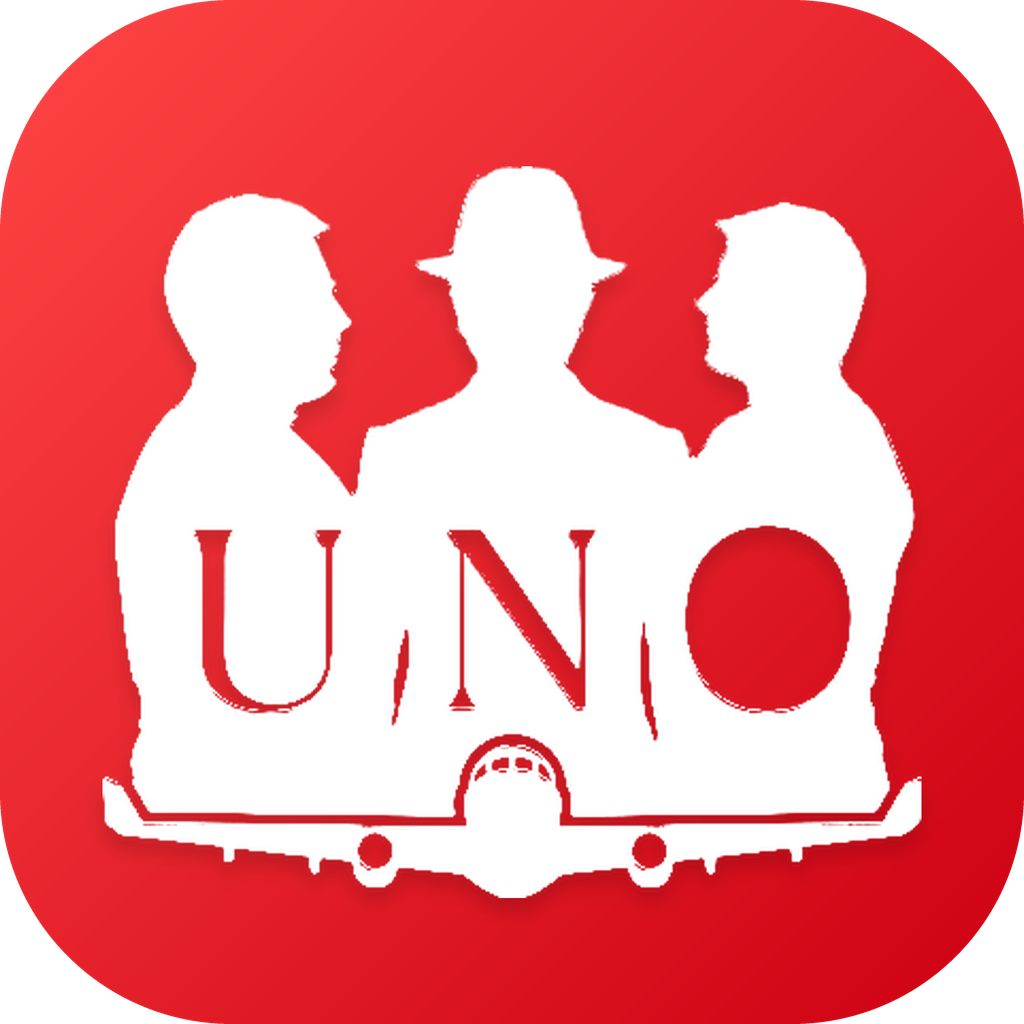
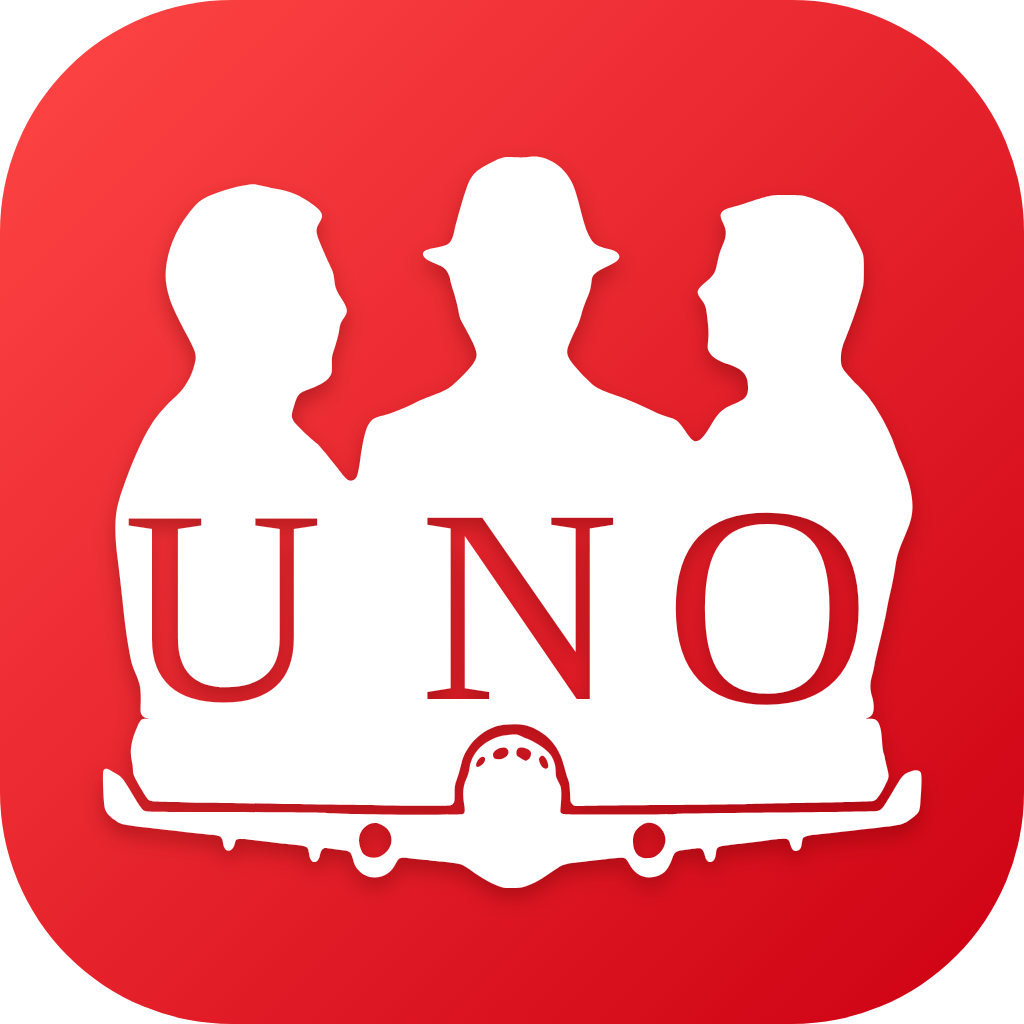
Logotip vektorga aylantirildi: tiniq chetlar, UNO harflari shriftdan
Haykallar va samolyot asl rasmdan silliqlanib potrace bilan vektorga
aylantirildi, UNO harflari serif shrift bilan qayta chizildi. icon.svg
sarlavha va brauzer tabida, PNG belgilar SVG'dan yasaladi.

Claude-Session: https://claude.ai/code/session_01YRN6BYSj1uMmr4JGCEUbTF

diff --git a/index.html b/index.html
@@ -9,7 +9,8 @@
   <meta name="description" content="UNO Kids — bolalar uchun xavfsiz video ilova. Faqat ota-ona tanlagan YouTube videolari.">
   <title>UNO Kids</title>
   <link rel="manifest" href="manifest.json">
-  <link rel="icon" href="icon-192.png" type="image/png">
+  <link rel="icon" href="icon.svg" type="image/svg+xml">
+  <link rel="alternate icon" href="icon-192.png" type="image/png">
   <link rel="apple-touch-icon" href="icon-180.png">
   <link rel="stylesheet" href="styles.css">
 </head>
@@ -18,7 +19,7 @@
   <!-- ===== Birinchi ishga tushirish: PIN yaratish ===== -->
   <section id="screen-setup" class="screen center-screen" hidden>
     <div class="panel center-panel">
-      <img src="icon-512.png" alt="" class="setup-logo">
+      <img src="icon.svg" alt="" class="setup-logo">
       <h2>UNO Kids'ga xush kelibsiz!</h2>
       <p class="muted">Avval ota-ona uchun 4 xonali PIN kod yarating. Bu kod bilan faqat siz videolarni qo'sha yoki o'chira olasiz.</p>
       <input id="setup-pin" class="pin-input" type="password" inputmode="numeric" maxlength="4" placeholder="••••" autocomplete="off">
@@ -32,7 +33,7 @@
   <div id="app" hidden>
     <header class="topbar" id="topbar">
       <a class="brand" href="#/home" aria-label="UNO Kids bosh sahifa">
-        <img src="icon-192.png" alt="">
+        <img src="icon.svg" alt="">
         <span>UNO <b>Kids</b></span>
       </a>
       <div class="top-actions">

diff --git a/assets/render_icons.js b/assets/render_icons.js
@@ -1,0 +1,17 @@
+// icon.svg dan PNG belgilarni yasaydi: node assets/render_icons.js
+const { chromium } = require('playwright');
+const fs = require('fs');
+const path = require('path');
+const root = path.join(__dirname, '..');
+(async () => {
+  const svg = fs.readFileSync(path.join(root, 'icon.svg'), 'utf8');
+  const b = await chromium.launch();
+  for (const s of [180, 192, 512, 1024]) {
+    const p = await b.newPage({ viewport: { width: s, height: s } });
+    await p.setContent(`<html><body style="margin:0;background:transparent">${svg.replace('<svg ', `<svg width="${s}" height="${s}" `)}</body></html>`);
+    await p.screenshot({ path: path.join(root, `icon-${s}.png`), omitBackground: true });
+    await p.close();
+  }
+  await b.close();
+  console.log('PNG belgilar tayyor');
+})();

diff --git a/sw.js b/sw.js
@@ -1,6 +1,6 @@
 // UNO Kids service worker: ilova qobig'ini keshlaydi (videolar internet orqali o'ynaydi).
-const CACHE = 'uno-kids-v5';
-const SHELL = ['./', 'index.html', 'styles.css', 'app.js', 'manifest.json', 'icon-180.png', 'icon-192.png', 'icon-512.png'];
+const CACHE = 'uno-kids-v6';
+const SHELL = ['./', 'index.html', 'styles.css', 'app.js', 'manifest.json', 'icon.svg', 'icon-180.png', 'icon-192.png', 'icon-512.png'];
 
 self.addEventListener('install', (e) => {
   e.waitUntil(caches.open(CACHE).then((c) => c.addAll(SHELL)).then(() => self.skipWaiting()));

diff --git a/assets/make_logo.py b/assets/make_logo.py
@@ -1,84 +1,185 @@
-"""UNO asl logotipidan uchta haykal va UNO yozuvini ajratib, qizil ilova belgisini yasaydi.
-Ishlatish: python3 assets/make_logo.py  (Pillow va numpy kerak)"""
+"""UNO asl logotipidan uchta haykal, UNO yozuvi va samolyotni olib, vektor (SVG) qizil belgini yasaydi.
+
+Haykallar va samolyot asl rasmdan silliqlanib vektorga aylantiriladi,
+UNO harflari esa toza serif shrift bilan qayta chiziladi (asl joylashuvida).
+
+Ishlatish:
+    pip install potracer fonttools pillow numpy
+    python3 assets/make_logo.py            # icon.svg ni yasaydi
+    node assets/render_icons.js            # icon.svg dan PNG belgilarni yasaydi (Playwright)
+"""
+import os
+import numpy as np
 from PIL import Image, ImageDraw, ImageFilter
-import numpy as np, os
+import potrace
+from fontTools.ttLib import TTFont
+from fontTools.pens.svgPathPen import SVGPathPen
+from fontTools.pens.transformPen import TransformPen
 
 HERE = os.path.dirname(os.path.abspath(__file__))
 ROOT = os.path.dirname(HERE)
-CUT_Y = 720  # samolyot ham kiradi
+FONT = '/usr/share/fonts/truetype/liberation/LiberationSerif-Regular.ttf'
+UP = 3                       # aniqlik uchun rasmni 3 marta kattalashtirib ishlaymiz
+BOX = (330, 350, 750, 720)   # asl rasmdagi markaziy qism: haykallar + samolyot
+PLANE_Y = 628                # shu chiziqdan pastda samolyot (asl rasm koordinatasi)
+LETTER_BAND = (522, 624)     # UNO harflari joylashgan qator (asl rasm koordinatasi)
 
-im = Image.open(os.path.join(HERE, 'uno-original.png')).convert('RGBA')
-a = np.array(im).astype(float)
+
+def to_img(arr):
+    return Image.fromarray((arr * 255).astype('uint8')).copy()
+
+
+def blur_bin(arr, sigma, thr=128):
+    return np.array(to_img(arr).filter(ImageFilter.GaussianBlur(sigma))) > thr
+
+
+def fill_holes(arr):
+    padded = to_img(np.pad(arr, 2))
+    ImageDraw.floodfill(padded, (0, 0), 128)
+    outside = np.array(padded) == 128
+    return ~outside[2:-2, 2:-2]
+
+
+# ---------- 1) Asl rasmdan oltin shaklni ajratish ----------
+src = Image.open(os.path.join(HERE, 'uno-original.png')).convert('RGBA').crop(BOX)
+src = src.resize((src.width * UP, src.height * UP), Image.LANCZOS)
+a = np.array(src).astype(float)
 alpha = a[..., 3:4] / 255
 rgb = a[..., :3] * alpha + 255 * (1 - alpha)
-sat = rgb.max(axis=2) - rgb.min(axis=2)
-dark = 255 - rgb.mean(axis=2)
-score = np.maximum(sat * 1.2, dark)
+score = np.maximum((rgb.max(axis=2) - rgb.min(axis=2)) * 1.2, 255 - rgb.mean(axis=2))
 
 h, w = score.shape
 yy, xx = np.mgrid[0:h, 0:w]
-inside = ((xx - 540) ** 2 + (yy - 540) ** 2 < 245 ** 2) & (yy < CUT_Y)
-soft = np.clip((score - 20) / 18, 0, 1) * inside
+cx, cy = (540 - BOX[0]) * UP, (540 - BOX[1]) * UP
+inside = (xx - cx) ** 2 + (yy - cy) ** 2 < (245 * UP) ** 2
 
-mask = Image.fromarray((soft * 255).astype('uint8'))
-binm = mask.point(lambda v: 255 if v > 140 else 0).filter(ImageFilter.MedianFilter(3))
-# Asosiy bo'laklarni ularning ichidagi nuqtalardan to'ldirib olamiz: haykallar, samolyot, dvigatellar.
-# Shu bo'laklarga ulanmagan mayda nuqtalar tashlab yuboriladi.
-label = binm.copy()
+shape = blur_bin(score * inside / 255, UP * 0.8, 40)
+body = np.array(to_img((score > 6) & inside).filter(ImageFilter.MinFilter(UP * 2 + 1))) > 0
+shape |= body
+
+# Faqat asosiy bo'laklar (haykallar, samolyot, dvigatellar); mayda nuqtalar tashlanadi
+label = to_img(shape)
 SEEDS = [(430, 420), (540, 420), (650, 420), (540, 690), (380, 662), (700, 662), (475, 684), (605, 684)]
 for sx, sy in SEEDS:
-    best = None
-    for dx in range(-12, 13):
-        for dy in range(-12, 13):
-            if label.getpixel((sx + dx, sy + dy)) == 255:
-                best = (sx + dx, sy + dy); break
-        if best: break
-    if best:
-        ImageDraw.floodfill(label, best, 128)
-keep = np.array(label) == 128
-keep_img = Image.fromarray((keep * 255).astype('uint8')).filter(ImageFilter.MaxFilter(3))
-keep_arr = np.array(keep_img) > 0
-# Ichki och-oltin joylar (yaltirash) ham to'liq oq bo'lsin: past chegara bilan tana, chetidan 2px ichkarida
-mask_arr = np.array(mask).astype(float)
-body = Image.fromarray(((score > 6) & inside).astype('uint8') * 255).filter(ImageFilter.MinFilter(5))
-mask_arr = np.maximum(mask_arr, np.array(body).astype(float)) * keep_arr
-mask = Image.fromarray(mask_arr.astype('uint8'))
-bbox = mask.point(lambda v: 255 if v > 128 else 0).getbbox()
-mask = mask.crop(bbox)
-mask.save(os.path.join(HERE, 'uno-figures-mask.png'))
+    px, py = (sx - BOX[0]) * UP, (sy - BOX[1]) * UP
+    for r in range(40):
+        hit = next(((px + dx, py + dy) for dx, dy in ((r, 0), (-r, 0), (0, r), (0, -r), (r, r), (-r, -r))
+                    if label.getpixel((px + dx, py + dy)) == 255), None)
+        if hit:
+            ImageDraw.floodfill(label, hit, 128)
+            break
+shape = np.array(label) == 128
 
-def red_bg(size):
-    s = size
-    g = np.zeros((s, s, 4), dtype=np.uint8)
-    t = (np.add.outer(np.arange(s), np.arange(s)) / (2 * s - 2))[..., None]
-    c1, c2 = np.array([255, 70, 70]), np.array([205, 0, 18])
-    g[..., :3] = (c1 * (1 - t) + c2 * t).astype(np.uint8)
-    g[..., 3] = 255
-    bg = Image.fromarray(g, 'RGBA')
-    m = Image.new('L', (s, s), 0)
-    ImageDraw.Draw(m).rounded_rectangle([0, 0, s - 1, s - 1], radius=int(s * 0.226), fill=255)
-    bg.putalpha(m)
-    return bg
+# ---------- 2) Harflar joyini aniqlash (haykal ichidagi teshiklar) ----------
+filled = fill_holes(shape)
+holes = filled & ~shape
+b0, b1 = (LETTER_BAND[0] - BOX[1]) * UP, (LETTER_BAND[1] - BOX[1]) * UP
+band = np.zeros_like(holes)
+band[b0:b1] = holes[b0:b1]
+cols = band.sum(axis=0) > UP * 6
+runs, start = [], None
+for x in range(len(cols) + 1):
+    on = x < len(cols) and cols[x]
+    if on and start is None:
+        start = x
+    elif not on and start is not None:
+        runs.append((start, x - 1)); start = None
+runs = sorted(sorted(runs, key=lambda r: r[1] - r[0], reverse=True)[:3])
+letter_boxes = []
+for x0, x1 in runs:
+    ys_ = np.nonzero(band[:, x0:x1 + 1].any(axis=1))[0]
+    letter_boxes.append((x0, ys_.min(), x1, ys_.max()))
 
-def make_icon(size, out):
-    big = size * 4  # silliq chet uchun katta o'lchamda chizib, keyin kichraytiramiz
-    bg = red_bg(big)
-    mw, mh = mask.size
-    scale = min(big * 0.80 / mw, big * 0.74 / mh)
-    fm = mask.resize((int(mw * scale), int(mh * scale)), Image.LANCZOS)
-    x = (big - fm.width) // 2
-    y = (big - fm.height) // 2 + int(big * 0.02)
-    # yengil soya
-    shadow = Image.new('RGBA', (big, big), (0, 0, 0, 0))
-    sh = Image.new('RGBA', fm.size, (90, 0, 0, 110)); sh.putalpha(fm.point(lambda v: v * 110 // 255))
-    shadow.paste(sh, (x, y + big // 80), sh)
-    shadow = shadow.filter(ImageFilter.GaussianBlur(big / 120))
-    bg = Image.alpha_composite(bg, shadow)
-    white = Image.new('RGBA', fm.size, (255, 255, 255, 255)); white.putalpha(fm)
-    bg.alpha_composite(white, (x, y))
-    bg.resize((size, size), Image.LANCZOS).save(out)
+# ---------- 3) Silliq haykallar (teshiklarsiz) + samolyot ----------
+py0 = (PLANE_Y - BOX[1]) * UP
+figures = filled.copy(); figures[py0:] = False
+figures = fill_holes(blur_bin(figures, UP * 2.6))
+plane = shape.copy(); plane[:py0] = False
+plane = blur_bin(plane, UP * 0.9)
+final = figures | plane
 
-for s in (180, 192, 512, 1024):
-    make_icon(s, os.path.join(ROOT, f'icon-{s}.png'))
+ys, xs = np.nonzero(final)
+ox, oy = xs.min(), ys.min()
+final = final[oy:ys.max() + 1, ox:xs.max() + 1]
+H, W = final.shape
+PAD = 8
+final = np.pad(final, PAD)
 
-print('tayyor', mask.size)
+# ---------- 4) Vektorga aylantirish ----------
+plist = potrace.Bitmap(~final).trace(turdsize=int(10 * UP * UP), alphamax=1.2, opticurve=True, opttolerance=0.3)
+
+
+def f(v):
+    return f'{v:.1f}'.rstrip('0').rstrip('.')
+
+
+d = []
+for curve in plist:
+    sp = curve.start_point
+    d.append(f'M{f(sp.x)} {f(sp.y)}')
+    for seg in curve.segments:
+        if seg.is_corner:
+            d.append(f'L{f(seg.c.x)} {f(seg.c.y)}L{f(seg.end_point.x)} {f(seg.end_point.y)}')
+        else:
+            d.append(f'C{f(seg.c1.x)} {f(seg.c1.y)} {f(seg.c2.x)} {f(seg.c2.y)} {f(seg.end_point.x)} {f(seg.end_point.y)}')
+    d.append('Z')
+figure_d = ''.join(d)
+
+# ---------- 5) UNO harflari shriftdan ----------
+font = TTFont(FONT)
+gs = font.getGlyphSet()
+cmap = font.getBestCmap()
+cap = font['OS/2'].sCapHeight or 1341
+
+
+def glyph_path(ch, box):
+    """Harfni box (bitmap koordinatasi, PAD qo'shilgan) ichiga joylaydi."""
+    x0, y0, x1, y1 = box
+    name = cmap[ord(ch)]
+    g = gs[name]
+    k = (y1 - y0) / cap
+    gw = g.width * k
+    # glif o'rtasini box o'rtasiga qo'yamiz; shrift koordinatasida y yuqoriga o'sadi
+    lsb = font['hmtx'][name][1]
+    bounds_w = (font['glyf'][name].xMax - font['glyf'][name].xMin) * k if 'glyf' in font else gw
+    tx = (x0 + x1) / 2 - bounds_w / 2 - lsb * k
+    pen = SVGPathPen(gs, ntos=lambda v: f(v))
+    g.draw(TransformPen(pen, (k, 0, 0, -k, tx, y1)))
+    return pen.getCommands()
+
+
+letters_d = ''.join(glyph_path(ch, (bx0 - ox + PAD, by0 - oy + PAD, bx1 - ox + PAD, by1 - oy + PAD))
+                    for ch, (bx0, by0, bx1, by1) in zip('UNO', letter_boxes))
+
+# ---------- 6) Qizil belgi ----------
+S = 512
+scale = min(S * 0.80 / W, S * 0.74 / H)
+tx = (S - W * scale) / 2 - PAD * scale
+ty = (S - H * scale) / 2 + S * 0.01 - PAD * scale
+T = f'translate({f(tx)} {f(ty)}) scale({scale:.5f})'
+
+svg = f'''<svg xmlns="http://www.w3.org/2000/svg" viewBox="0 0 {S} {S}">
+  <defs>
+    <linearGradient id="bg" gradientUnits="userSpaceOnUse" x1="0" y1="0" x2="{S}" y2="{S}">
+      <stop offset="0" stop-color="#ff4646"/>
+      <stop offset="1" stop-color="#cd0012"/>
+    </linearGradient>
+    <mask id="letters" maskUnits="userSpaceOnUse" x="0" y="0" width="{S}" height="{S}">
+      <rect width="{S}" height="{S}" fill="#fff"/>
+      <path transform="{T}" fill="#000" d="{letters_d}"/>
+    </mask>
+    <filter id="sh" x="-10%" y="-10%" width="120%" height="125%">
+      <feDropShadow dx="0" dy="5" stdDeviation="5" flood-color="#5a0000" flood-opacity=".35"/>
+    </filter>
+  </defs>
+  <rect width="{S}" height="{S}" rx="116" fill="url(#bg)"/>
+  <g filter="url(#sh)">
+    <g mask="url(#letters)">
+      <path transform="{T}" fill="#fff" fill-rule="evenodd" d="{figure_d}"/>
+    </g>
+  </g>
+</svg>
+'''
+with open(os.path.join(ROOT, 'icon.svg'), 'w') as fh:
+    fh.write(svg)
+print('icon.svg tayyor:', len(plist), 'ta kontur, harflar:', letter_boxes, round(len(svg) / 1024), 'KB')
